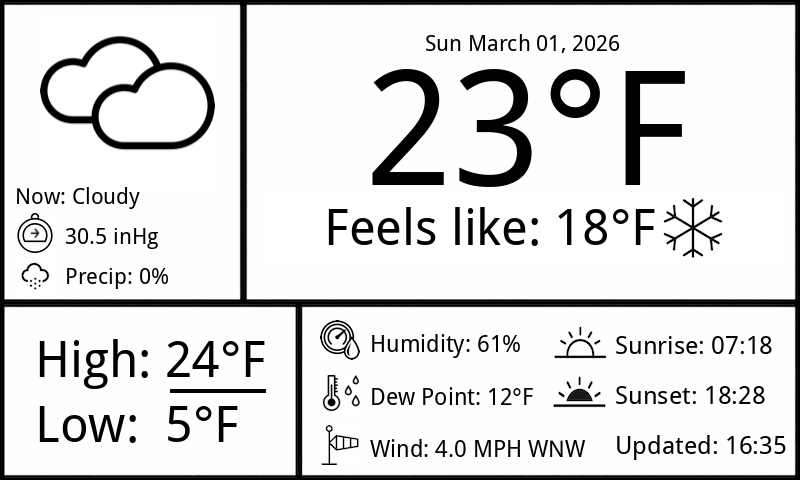
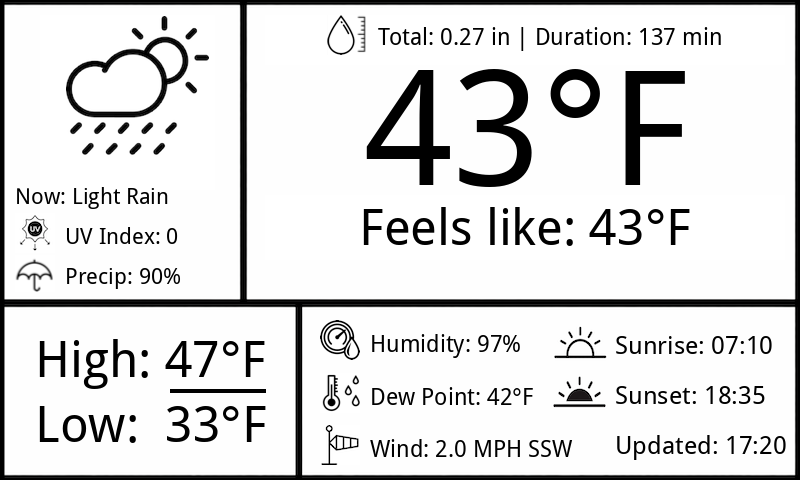
rm baro and add UV. Add conditionals to handle erroneous data behavior.

diff --git a/weather.py b/weather.py
@@ -143,26 +143,30 @@ while True:
             f.close()
             # get current dict block
             current = wxdata['current_conditions']
-       # get current
-            temp_current = current['air_temperature']
-       # get feels like
-            feels_like = current['feels_like']
+            # get current
+            temp_current = current['air_temperature'] or "-"
+            # get feels like
+            feels_like = current['feels_like'] or "-"
             # get humidity
-            humidity = current['relative_humidity']
+            humidity = current['relative_humidity'] or "-"
+            # get uv
+            uv_index = current['uv']
             #get dew point
-            dewpt = current['dew_point']
+            dewpt = current['dew_point'] or "-"
             # get wind speed
-            wind = current['wind_avg']
-            windcard = current['wind_direction_cardinal']
-            gust =  current['wind_gust']
+            wind = current['wind_avg'] or "-"
+            windcard = current['wind_direction_cardinal'] or "-"
+            gust =  current['wind_gust'] or "-"
             # get description
-            weather = current['conditions']
-            report = current['conditions']
+            report = current['conditions'] or "-"
             if report == 'Thunderstorms Possible':
                 report = 'T-Storms Possible'
             #get pressure trend
             baro = current['sea_level_pressure']
-            trend = current['pressure_trend']
+            if 'pressure_trend' in current:
+                trend = current['pressure_trend']
+            else:
+                trend = "Unknown"
             # get icon url - manually override for wind > 10mph
             icon_code = current['icon']
             if icon_code != 'thunderstorm' and icon_code != 'snow' and icon_code != 'sleet' and icon_code != 'rainy' and gust >= 10:
@@ -181,8 +185,16 @@ while True:
 
             # get daily precip
             daily_precip_percent = daily['precip_probability']
-            total_rain = current['precip_accum_local_day']
-            rain_time = current['precip_minutes_local_day']
+            if 'precip_accum_local_day' in current:
+                total_rain = current['precip_accum_local_day']
+            else:
+                total_rain = "Unknown"
+
+            if 'precip_minutes_local_day' in current:
+                rain_time = current['precip_minutes_local_day']
+            else:
+                rain_time = float('inf')
+
             if rain_time > 0 and total_rain <= 0:
                 total_rain = 1000
             # get min and max temp
@@ -212,11 +224,32 @@ while True:
                 string_event = event
             
             # Set strings to be printed to screen
-            string_temp_current = format(temp_current, '.0f') + u'\N{DEGREE SIGN}F'
-            string_feels_like = 'Feels like: ' + format(feels_like, '.0f') +  u'\N{DEGREE SIGN}F'
-            string_humidity = 'Humidity: ' + str(humidity) + '%'
-            string_dewpt = 'Dew Point: ' + format(dewpt, '.0f') +  u'\N{DEGREE SIGN}F'
-            string_wind = 'Wind: ' + format(wind, '.1f') + ' MPH ' + windcard 
+            # If temp_current is not reported
+            if temp_current == "-":
+                string_temp_current = temp_current + u'\N{DEGREE SIGN}F'
+            else:
+                string_temp_current = format(temp_current, '.0f') + u'\N{DEGREE SIGN}F'
+            # If feels_like is not reported
+            if feels_like == "-":
+                string_feels_like = 'Feels like: ' + feels_like +  u'\N{DEGREE SIGN}F'
+            else:
+                string_feels_like = 'Feels like: ' + format(feels_like, '.0f') +  u'\N{DEGREE SIGN}F'
+            # If humidity is not reported
+            if humidity == "-":
+                string_humidity = 'Humidity: ' + humidity + '%'
+            else:
+                string_humidity = 'Humidity: ' + str(humidity) + '%'
+            # If dewpt is not reported
+            if dewpt == "-":
+                string_dewpt = 'Dew Point: ' + dewpt + u'\N{DEGREE SIGN}F'
+            else:
+                string_dewpt = 'Dew Point: ' + format(dewpt, '.0f') +  u'\N{DEGREE SIGN}F'
+            # If wind is not reported
+            if wind == "-":
+                string_wind = 'Wind: ' + wind + ' MPH ' + windcard
+            else:    
+                string_wind = 'Wind: ' + format(wind, '.1f') + ' MPH ' + windcard 
+            
             formatted_date = datetime.now()
             formatted_date_string = formatted_date.strftime("%a") + " " + formatted_date.strftime("%B") + " " + formatted_date.strftime("%d,") + " " + formatted_date.strftime("%Y")
             if report.title() == 'Wintry Mix Possible':
@@ -262,15 +295,21 @@ while True:
     if report.title() == 'Wintry Mix Possible':
         draw.text((70, 185), string_reportaux, font=font20, fill=black)
     #Barometer trend logic block
-    if trend == 'falling':
-        baro_file = 'barodown.png'
-    elif trend == 'steady':
-        baro_file = 'barosteady.png'
-    else: #trend == 'rising':
-        baro_file = 'baroup.png'
-    baro_image = Image.open(os.path.join(icondir, baro_file))
-    template.paste(baro_image, (15, 213)) #15, 218
-    draw.text((65, 223), string_baro, font=font22, fill=black) #65,228
+    # if trend == 'falling':
+    #     baro_file = 'barodown.png'
+    # elif trend == 'steady':
+    #     baro_file = 'barosteady.png'
+    # else: #trend == 'rising':
+    #     baro_file = 'baroup.png'
+
+    # Barometer metric
+    # baro_image = Image.open(os.path.join(icondir, baro_file))
+    # template.paste(baro_image, (15, 213)) #15, 218
+    # draw.text((65, 223), string_baro, font=font22, fill=black) #65,228
+    # UV metric
+    uv_image = Image.open(os.path.join(icondir, 'uv.png'))
+    template.paste(uv_image, (15, 213)) #15, 218
+    draw.text((65, 223), "UV Index: " + str(uv_index), font=font22, fill=black) #65,228
     if temp_current <= 39 and temp_current >= 33:
         precip_file = 'mix.png'
     elif temp_current <= 32:
@@ -428,10 +467,3 @@ while True:
 
     # Write to screen
     write_to_screen(screen_output_file, 300)
-
-    # Collect garbage
-    collected = gc.collect()
-    print(f"Garbage collected {collected} objects")
-
-    # GPIO.cleanup()
-    # os.system("sudo reboot")
